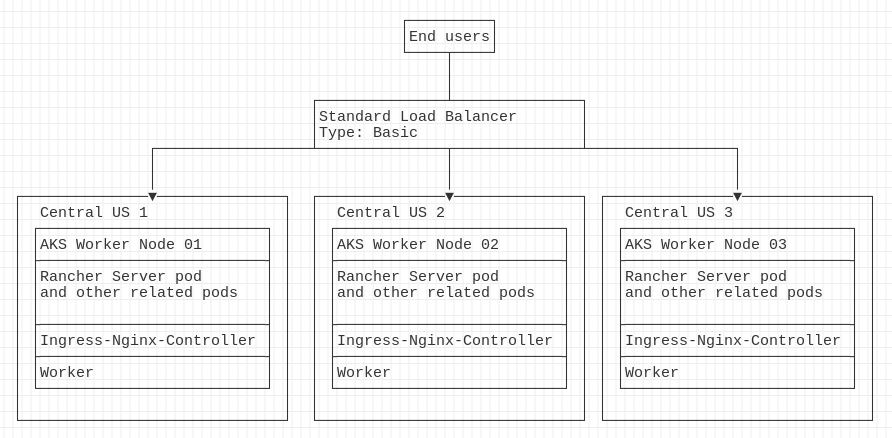
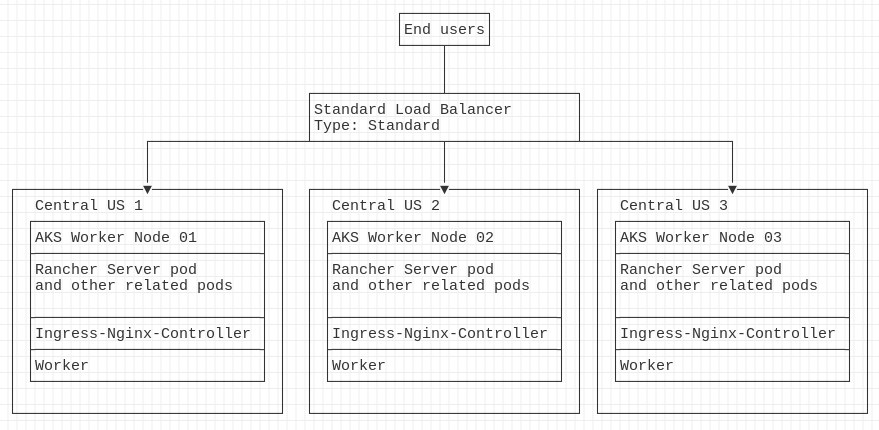
Switching LB type to Standard

Changed region(s): [[0.0, 0.0302, 0.9829, 0.9674], [0.3993, 0.8465, 0.43, 0.8767]]

diff --git a/ch05/standard_designs/AKS/02_standard_cluster/README.md b/ch05/standard_designs/AKS/02_standard_cluster/README.md
@@ -6,7 +6,7 @@
                                                 |
                                  +--------------+--------------+
                                  |Standard Load Balancer       |
-                                 |Type: Basic                  |
+                                 |Type: Standard               |
                +-----------------+--------------+--------------+----------------+
                |                                |                               |
                |                                |                               |
